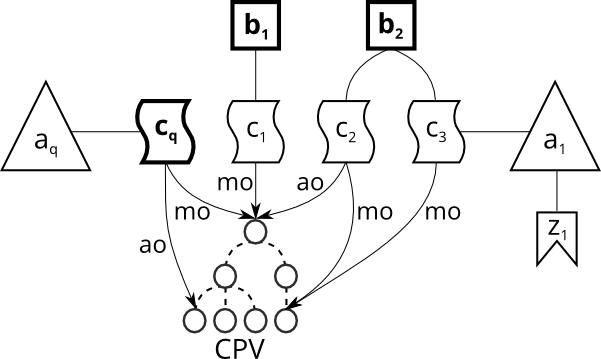
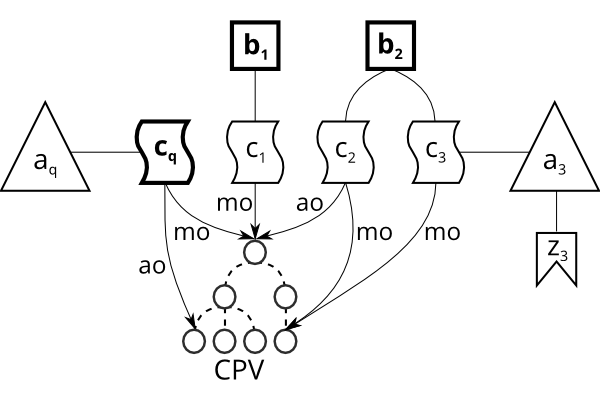
Formalization (again) revamped

Changed region(s): [[0.0, 0.0, 0.78, 1.0], [0.66, 0.2145, 1.0, 0.7354]]

diff --git a/parts/sparql.md b/parts/sparql.md
@@ -78,16 +78,15 @@ For example, SPARQL treats sorting as a result modifier, which needs to be provi
 
 ### Ranking
 
-<!-- FIXME: Should we rename this section "Personalized matchmaking"? -->
-
 SPARQL queries retrieve exact matches satisfying the query conditions.
 Since SPARQL can tell only matches from non-matches, the degrees to which matches satisfy the query are unknown.
 Ranking of matches thus needs to be implemented on top of SPARQL.
 We need to relax the match conditions to avoid filtering partial matches, and then compute scores to rank the matches.
 
-The matchmaker retrieves contract objects that overlap with the object of the query contract, which are optionally expanded to include related CPV concepts.
-Components of contract objects are weighted and these weights are combined into a contract similarity score.
-Contract similarities are aggregated per bidder to produce bidder's match score.
+The matchmaker operates with a given query contract $c_{q}$, which is matched to contracts from the set $C$. <!-- _b -->
+It retrieves contract objects that overlap with the object of the query contract, which are optionally expanded to include related CPV concepts.
+Components of contract objects are weighted and these weights are combined into partial similarity scores.
+Partial similarities are then aggregated per bidder to produce bidder's match score.
 
 #### Contract objects
 
@@ -95,77 +94,94 @@ Contract objects describe what products or services are sought by contracts.
 There are many ways how a contract object can be described.
 The matchmaker leverages contract objects described by terms from controlled vocabularies, such as CPV or the code list of contract kinds.
 Concretely, the matchmaker can use CPV concepts, either as main or additional objects or their qualifiers (`pc:mainObject`, `pc:additionalObject`), contract kinds (`pc:kind`), and service categories (`isvz:serviceCategory`).
-Consequently, we define the set of properties $P = \{\texttt{isvz:serviceCategory}, \texttt{pc:additionalObject}, \texttt{pc:kind}, \texttt{pc:mainObject}\}$ that associate concepts with contracts.
+Consequently, we define the set of properties $P = \{\texttt{pc:mainObject}, \texttt{pc:additionalObject}, \texttt{pc:kind}, \texttt{isvz:serviceCategory}\}$ that associate concepts with contracts.
 The range of each of these properties is enumerated by a controlled vocabulary.
 We define the union of concepts in these vocabularies as $Con = Con_{CPV} \cup Con_{kind} \cup Con_{\substack{service \\ category}}$. <!-- _b -->
 A concept can be either explicitly assigned to a contract or inferred via query expansion.
-To capture this distinction we define the concept type $ConT = \{\text{explicit}, \text{inferred}\}$.
-Contract object $Cobj$ is then an ordered triple $(con, p, cont): con \in Con \land p \in P \land cont \in ConT$ of a concept $con$, a property $p$ with which it is associated to a contract, and the concept type $cont$.
-Contract objects are represented as sets of these triples.
-In order to access contract objects we use the function $obj\colon C \to \mathbb{P}(Cobj)$.
+To capture this distinction we use concept assignment $ConA = \{\text{explicit}, \text{inferred}\}$.
+Contract object $cobj$ is then a tuple $((con, p), cona) \colon con \in Con, p \in P, cona \in ConA$, in which a concept $con$ is paired with property $p$ that associates the concept to a contract and this pair is qualified with concept assignment $cona$.
+Contract objects are represented as sets $Cobj$ of these tuples.
+In order to obtain contract objects we use the function $obj \colon C \cup \left\{c_{q}\right\} \to \mathbb{P}(Cobj)$. <!-- _b -->
+Here, $\mathbb{P}(Cobj)$ denotes the powerset of the set $Cobj$.
+Accessing the elements of contract objects is in turn done by function $ccobj(cobj) = con \iff cobj = ((con, p), cona)$ for concepts and by function $pcobj(cobj) = p \iff cobj = ((con, p), cona)$ for properties.
 
 #### Query expansion
 
 The controlled vocabularies that describe contract objects can be semantically structured, such as via hierarchical or associative relations.
 Since relevance of a concept may entail relevance of concepts in its neighbourhood, we can leverage the structure of these vocabularies and perform expansion to include the related concepts in the query.
-In particular, we expand CPV concepts by following hierarchical relations in this vocabulary.
+In particular, we expand CPV concepts by following transitive hierarchical relations in this vocabulary.
 We follow either links to narrower concepts via `skos:narrowerTransitive`, links to broader concepts via `skos:broaderTransitive`, or links in both directions.
 Query expansion can be parameterized by the maximum number of hops followed to obtain a graph neighbourhood of the expanded concept.
+When a concept is expanded, its inferred concepts include those that are one to the maximum hops away from the expanded concept.
+Note that it is possible to infer a concept already included in the explicitly assigned concepts when these are hierarchically related.
+In such case, the concept appears twice in the contract object, distinguished by its concept assignment.
+Similarly, the same inferred concept can be reached more times by expanding different concepts.
+Such concept is present once in the results of query expansion since the results form a set.
 Figures [@fig:expand-to-narrower] and [@fig:expand-to-broader] illustrate the query expansion, showing expansions to two-hop neighbourhoods. 
 
-![Expansion to broader concepts](img/expand_to_broader.png){#fig:expand-to-broader}
+![Expansion to broader concepts](img/query_expansion_broader.png){#fig:expand-to-broader width=50%}
 
-![Expansion to narrower concepts](img/expand_to_narrower.png){#fig:expand-to-narrower}
+![Expansion to narrower concepts](img/query_expansion_narrower.png){#fig:expand-to-narrower width=50%}
 
-Query expansion can be defined as $exp\colon \mathbb{P}(Cobj) \times Dir \times H \to \mathbb{P}(Cobj)$.
-Number of hops followed in the expansion is drawn from positive integers in the set $H = \{h \in \mathbb{N}^{0}\}$.
-Direction of expansion $Dir$ is the set $\{\texttt{skos:broaderTransitive}, \texttt{skos:narrowerTransitive}\}$.
-Bidirectional expansion of the contract object $cobj$ by the number of hops $h$ can thus be defined as $exp(cobj, \texttt{skos:broaderTransitive}, h) \cup exp(cobj, \texttt{skos:narrowerTransitive}, h)$.
-We only require $exp$ to be monotonous, so that for every contract object $cobj \in Cobj$ holds that $(con, p, t) \in cobj \;\; \Rightarrow \;\; (con, p, t) \in exp(cobj, dir, h)$.
-By default $h = 0$, which translates to no expansion, so that $exp(cobj, dir, 0) = cobj$.
-Concrete instantiations of the query expansion function can limit which input contract objects are expanded.
-In our case, only contract objects where $p = \texttt{pc:mainObject}$ and $con \in Con_{CPV}$ are expanded. <!-- _b -->
+Arguments of the query expansion function $exp$ are a set of contract objects, a direction of expansion, and a distance of the expansion.
+The direction of expansion $Dir$ is the set $\{\texttt{skos:broaderTransitive}, \texttt{skos:narrowerTransitive}\}$ indicating either the expansion to broader or narrower concepts.
+The distance is the maximum number of hops followed in the expansion.
+Consequently, the query expansion function can be defined as $exp \colon \mathbb{P}(Cobj) \times Dir \times \mathbb{N}_{> 0} \to \mathbb{P}(Cobj)$. <!-- _b -->
+Bidirectional expansion of the contract object $cobj' \subset Cobj$ to the distance $dis$ can thus be computed as $exp(cobj', \texttt{skos:broaderTransitive}, dis) \cup exp(cobj', \texttt{skos:narrowerTransitive}, dis)$.
+We only require $exp$ to be monotonous, so that for every contract object $cobj \in Cobj$ holds that $((con, p), cona) \in cobj \;\; \Rightarrow \;\; ((con, p), cona) \in exp(cobj, dir, dis)$, hence the function $exp$ returns a union of its provided contracts objects with the inferred contract objects.
+Concrete instantiations of $exp$ can limit which input contract objects are expanded.
+In our case, either no contract objects are expanded or we only expand the explicitly assigned contract objects where $p = \texttt{pc:mainObject}$ and $con \in Con_{CPV}$. <!-- _b -->
 
 #### Matching
 
-The matchmaker examines only exact matches between contract objects.
-The predicate $matches\colon Cobj \times Cobj \to \{T, F\}$ returns the boolean value true, denoted as $T$, if concepts in the compared contract objects are the same.
+The matchmaker examines only exact matches between concepts of contract objects.
+Instead of matching complete contract descriptions or sets of concepts, matching on the finer level of individual concepts allows to capture partial overlaps between contracts.
+The predicate $matches \colon Cobj \times Cobj \to \{T, F\}$ returns the boolean value true, denoted as $T$, if concepts in the compared contract objects are the same.
 
 $$matches(cobj_{a}, cobj_{b}) =
   \begin{cases}
-    T & \text{if}\ cobj_{a_{1}} = cobj_{b_{1}} \\
+    T & \text{if}\ ccobj(cobj_{a}) = ccobj(cobj_{b}) \\
     F & \textrm{otherwise} \\
   \end{cases}$$ <!-- _b -->
 
-Here, $cobj_{a_{1}}$ refers to the first element of the tuple $cobj_{a}$, i.e. its concept.
-Analogously, $cobj_{b_{1}}$ is the concept in $cobj_{b}$.
-In order to achieve a match, the ranges of the properties in the compared contract objects must be the same.
+Here, $ccobj(cobj_{a})$ accesses the concept in the contract object $cobj_{a}$.
+As is evident, in order to achieve a match, the ranges of the properties in the compared contract objects must be the same.
 
 Matching considers its input as the query contract, while the others are treated as contracts to be matched.
-Function $match\colon C \times Dir \times H \to \mathbb{P}(CA)$ retrieves contract associations matching a given query contract $c_{q}$.
+Function $match \colon \left\{c_{q}\right\} \times Dir \times \mathbb{N}_{> 0} \to \mathbb{P}(CMA)$ retrieves concept-mediated associations matching a given query contract $c_{q}$.
 
-$$match(c_{q}, dir, h) = \bigcup_{
-  \substack{o_{q} \in obj(c_{q}) \\
-            c_{m} \in C \setminus \{c_{q}\} \\
-            o_{m} \in obj(c_{m}) \\
-            matches(o_{q}, o_{m})}}
-            (o_{q_{1}}, o_{q_{2}}, o_{m_{2}}, c_{m})$$
+$$match(c_{q}, dir, dis) = \bigcup \left\{ \begin{split}
+  & (ccobj(o_{q}), pcobj(o_{q}), pcobj(o_{m}), c_{m}) \colon \\
+  & o_{q} \in exp(obj(c_{q}), dir, dis), \\
+  & c_{m} \in C, \\
+  & o_{m} \in obj(c_{m}), \\
+  & matches(o_{q}, o_{m})
+  \end{split}\right\}$$
 
-This function produces concept associations $CA$ that are defined as quads $(con, p_{q}, p_{m}, c)\colon con \in Con \land p_{q} \in P \land p_{m} \in P \land c \in C$.
-Here we also employ the numeric subscript notation to access elements of the n-tuples $o_{q}$ and $o_{m}$.
-In each concept association $p_{q}$ is a property associating a concept $con$ to the query contract and $p_{m}$ is a property associating $con$ to a matched contract $c$.
+This function produces a set of concept-mediated associations $CMA$ that are defined as 4-tuples $(con, p_{q}, p_{m}, c) \colon con \in Con, p_{q} \in P, p_{m} \in P, c_{m} \in C$.
+We call them concept-mediated associations since they connect the query contract with the matched contracts via concepts.
+In each association $p_{q}$ is a property associating a concept $con$ to the query contract and $p_{m}$ is a property associating $con$ to a matched contract $c_{m}$. <!-- _b -->
+
+![Overall diagram of concept-mediated associations](img/matchmaking_overall_diagram.png){#fig:matchmaking-overall-diagram width=75%}
+
+The [@fig:matchmaking-overall-diagram] shows an overall diagram of concept-mediated associations.
+Query contract $c_{q}$ is associated to matched contracts $c_{1}, c_{2}, c_{3} \in C$ via CPV concepts that are assigned to contracts either by `pc:mainObject` ($mo$) or `pc:additionalObject` ($ao$).
+The matched contracts in turn lead to bidders $b_{1}, b_{2} \in B$.
+Here, $B$ is the set of known bidders.
+Contracting authority of $c_{q}$ is marked as $a_{q}$, while the contracting authority of $c_{3}$ is denoted as $a_{3}$.
+For $a_{3}$ a zIndex score $z_{3}$ is available.
 
 #### Weighting
 
-The matchmaker can translate each part of concept associations into a weight from $W = \{w \in \mathbb{R} : 0 \leq w \leq 1\}$.
+The matchmaker can translate each part of concept-mediated associations into a weight from $W = \{w \in \mathbb{R} \colon 0 \leq w \leq 1\}$.
 The concept $con$ can be transformed into an IDF, in particular when dealing with concepts obtained via query expansion.
-The properties $p_{q}$ and $p_{m}$ can be weighted according to the degree they contribute to the similarity between contracts.
-The contract $c$ can be turned into a weight corresponding to its contracting authority's fairness score.
+The properties $p_{q}$ and $p_{m}$ can be weighted according to the degree to which they contribute to the similarity between contracts.
+The contract $c_{m}$ can be turned into a weight corresponding to its contracting authority's fairness score. <!-- _b -->
 Some weights are given by data or derived from it, others can be provided as configuration to the matchmaker.
 
 There are several concrete ways in which weights can be applied to CPV concepts.
 The matchmaker may apply an inhibiting weight to de-emphasize the concepts associated with contracts via the `pc:additionalObject` property.
-These weights are applied both to associations with the query contract and those with the matched contracts.
+These weights are applied both to $p_{q}$ and $p_{m}$.
 <!--
 We could allow different weights for associations with the query contract and the matched contracts.
 For example, an additional object of the query contract can be weighted lower than an additional object of a matched contract.
@@ -175,16 +191,16 @@ For instance, while an authority may assign a smaller weight to additional objec
 Similarly, qualifying concepts from the CPV's supplementary vocabulary can be discounted by a lower weight.
 Concepts inferred by query expansion can be weighted either by a fixed inhibition or their inverse document frequency (IDF).
 
-Inverse document frequency is used to de-emphasize the impact of popular CPV concepts on matchmaking.
+Inverse document frequency is used to reduce the impact of popular CPV concepts on matchmaking.
 Unlike infrequent and specific concepts, the popular ones may have lesser discriminative power to determine the relevance of contracts described by them.
-IDF ($idf\colon Con_{CPV} \to \mathbb{R}^{+}$) is computed as follows: <!-- _b -->
+IDF, defined as $idf \colon Con_{CPV} \to \mathbb{R}^{+}$, is computed as follows: <!-- _b -->
 
-$$idf(con) = \log\frac{\left\vert{C}\right\vert}{1 + \left\vert{\{c \in C: con \in \{(con', p, t) \in obj(c): con'\}\}}\right\vert}$$
+$$idf(con) = \log\frac{\left\vert{C}\right\vert}{1 + \left\vert{\{c \in C \colon con \in \{((con', p), t) \in obj(c): con'\}\}}\right\vert}$$
 
 The denominator in the formula is incremented by 1 to avoid division by zero in case of concepts unused in contract objects.
 Subsequently, we scale IDF into $W$ by using its maximum value in order to be able to use it as a weight.
 
-$$idf'(con) = \frac{idf(con)}{max(\{con' \in Con_{CPV} : idf(con')\})}$$ <!-- _b -->
+$$idf'(con) = \frac{idf(con)}{max(\{con' \in Con_{CPV} \colon idf(con')\})}$$ <!-- _b -->
 
 Besides CPV, weights can be applied to objects of specific properties from $P$.
 In particular, the matchmaker can inhibit the objects of `pc:kind` when used in combination with CPV.
@@ -193,24 +209,32 @@ This property indicates the kinds of contracts, such as works or supplies, which
 The matchmaker also allows to weight the matched contracts indirectly via weights of their contracting authorities.
 We use zIndex scores as weights of contracting authorities.
 These scores are taken from the dataset described in [@sec:zindex].
-We assume the function $authority\colon C \to A$ returns the contracting authority of a given contract.
-The function $zindex\colon A \to W$ produces a weight given to a contracting authority by the zIndex score.
+We assume the function $authority \colon C \to Auth$ returns the contracting authority of a given contract.
+Here, $Auth$ denotes the set of known contracting authorities.
+The function $zindex \colon Auth \to W$ produces a weight given to a contracting authority by the zIndex score.
 We can then define the weighting function $zindex'$ by composing these functions; i.e. $zindex' = zindex \circ authority$.
 
-Weighting functions can be defined through a polymorphic function $weight\colon Con \cup P \cup C \to W$ that retrieves a weight according to the type of its argument.
-A weighting function $f$ can be thus applied to all components of concept association $coll \in CA$ using the common higher-order function $map$:
+Weighting functions can be defined through a polymorphic function $weight \colon Con \cup P \cup C \to W$ that retrieves a weight according to the type of its argument.
+A weighting function $f$ can be thus applied to all components of concept-mediated association $coll \in CMA$ using the common higher-order function $map$:
 
-$$map(f, coll) = \begin{cases}
+$$\small
+map(f, coll) = \begin{cases}
   () & \text{if}\ coll = () \\
-  f(coll_{1}) \oplus map(f, (coll_{2}, \dots, coll_{n})) & \text{if}\ coll = (coll_{1}, coll_{2}, \dots, coll_{n})
-\end{cases}$$
+  \begin{split}
+  & f(coll_{1}) \\
+  & \oplus \\
+  & map(f, (coll_{2}, \dots, coll_{n}))
+  \end{split}
+  & \text{if}\ coll = (coll_{1}, coll_{2}, \dots, coll_{n})
+\end{cases}
+\normalsize$$
 
-If we apply it to weighting functions from the set $WF$ and concept associations $CA$, then the type signature of this specialization is $map': WF \times CA \to W$.
+If we apply it to weighting functions from the set $WF$ and concept-mediated associations $CMA$, then the type signature of this derived function is $map' \colon WF \times CMA \to W$.
 
 #### Aggregation functions
 
 We use aggregation functions to turn weights into match scores.
-Weights of components in each concept association are combined using the function $comb$.
+Weights of components in each concept-mediated association are combined using the function $comb$.
 The combined weights are aggregated via the function $agg$.
 Both aggregation functions $comb$ and $agg$ have the same type signature $W \times W \to W$.
 
@@ -242,25 +266,34 @@ We use these t-conorms to aggregate contract similarities into the match scores 
 
 Any aggregation function $f$ is applied to a collection of weights $coll$ using the common higher-order function $foldl$ implementing left fold, in which $e$ is the identity element of $f$.
 
-$$foldl(f, e, coll) = \begin{cases}
+$$\small
+foldl(f, e, coll) = \begin{cases}
   e & \text{if}\ coll = () \\
-  foldl(f, f(e, coll_{1}), (coll_{2}, \dots, coll_{n})) & \text{if}\ coll = (coll_{1}, coll_{2}, \dots, coll_{n})
-\end{cases}$$
+  \begin{split}
+  foldl( & f, \\
+         & f(e, coll_{1}), \\
+         & (coll_{2}, \dots, coll_{n}))
+  \end{split}
+  & \text{if}\ coll = (coll_{1}, coll_{2}, \dots, coll_{n})
+\end{cases}
+\normalsize$$ <!-- _b -->
 
 If fact, both left and right folds can be used, since the aggregation functions we employ are associative.
 
 Given these formulas we can summarize how the matchmaker works.
-Using a configuration of query expansion and weighting, for a query contract $c_{q}$ the matchmaker retrieves concept associations $ca \in match(c_{q}, dir, h)$.
+The matchmaker retrieves concept-mediated associations $cma \in match(c_{q}, dir, dis)$ for a query contract $c_{q}$ using a configuration of query expansion and weighting.
 Concept associations are partitioned into subsets by the bidder awarded with their contract.
-Each concept association in these partitions is subsequently weighted to produce $ws = map(weight, ca)$.
-The obtained weights are combined to a single weight of each concept association $w = foldl(comb, 1, ws)$.
-A tuple $ws$ of the combined weights $w$ from a partition by bidder can be then aggregated by $foldl(agg, 0, ws)$ to produce match scores. 
-Finally, matches are sorted by their score in descending order and the top-$k$ matches are output.
+<!-- We can also create subpartitions by contract within these partitions. The aggregated weights in these subpartitions can be considered contract similarity scores. This may be closer to the informal explanation of matchmaking, yet it is unnecessary. -->
+Each concept-mediated association in these partitions is subsequently weighted to produce an n-tuple $ws = map(weight, cma)$.
+The obtained weights are combined to a single weight of each concept-mediated association $w = foldl(comb, 1, ws)$.
+An n-tuple $ws$ of the combined weights $w$ from a partition by bidder can be then aggregated by $foldl(agg, 0, ws)$ to produce match scores. 
+Finally, the matches are sorted by their score in descending order and the top-$k$ matches are output.
 
-### Non-personalized matchmaking
+<!-- FIXME: Do we need to formalize sorting and accessing the bidders from concept associations? -->
 
-Apart from the above-described matchmaker, we also implemented three non-personalized approaches for matchmaking.
-We call these approaches non-personalized because none of them considers the query contract.
+### Blind matchmaking
+
+Apart from the above-described matchmaker, we also implemented three blind approaches for matchmaking, none of which considers the query contract.
 The most basic is the random matchmaker that recommends bidders at random.
 While it is hardly going to deliver a competitive accuracy, it produces diverse results.
 An approach contrary to random matchmaking is the recommendation of the top-most popular bidders.

diff --git a/parts/methods.md b/parts/methods.md
@@ -57,20 +57,6 @@ Browsing-based approaches: navigation of the item space, for example using criti
 - Critiquing can be used to reformulate matchmaking queries (e.g., assign different weights) or query the results (e.g., filter to meet the critique).
 -->
 
-## Definitions
-
-<!--
-TODO: Does C denote a set of identities or internally structured objects?
--->
-
-We can start with a definition of the key entities involved in the matchmaking task.
-Let $C$ be the set of evaluated public contracts, $B$ the set of known bidders, $A$ the set of contracting authorities, and $Con_{CPV}$ be the set of CPV concepts.
-We use numeric subscripts to access elements of n-tuples, so that $coll_{i}$ denotes the $i$-th element of n-tuple $coll$.
-We use $\mathbb{P}$ to denote a power set of a set.
-We use $a \oplus b$ to denote concatenation of n-tuples $a$ and $b$.
-We define the set of tuples of elements from the set $S$ as $(S)$.
-Composition of functions $f$ and $g$ is denoted $f \circ g$.
-
 <!--
 Subscription to streams
 - Notifications
@@ -133,3 +119,11 @@ Top-k recommendation: best matches are shown, but not their predicted ratings.
 <!-- ... segue ... -->
 
 We experimented with matchmaking methods that use SPARQL, full-text search, and tensor factorization.
+
+## Notation conventions
+
+We employ conventional notation to describe the matchmaking methods.
+We use $\mathbb{P}$ to denote a power set of a set.
+We use $a \oplus b$ to denote concatenation of n-tuples $a$ and $b$.
+We mark the set of tuples of elements from the set $S$ as $(S)$.
+Composition of functions $f$ and $g$ is denoted $f \circ g$.

diff --git a/parts/offline_evaluation.md b/parts/offline_evaluation.md
@@ -49,17 +49,20 @@ Performance ~ efficiency in time and space (e.g., speed and RAM consumption)
 Mention restrictions by the computational cost of an evaluation protocol? E.g., not using a learning to rank algorithm?
 -->
 
-We define the evaluation metrics using the following notation, building on the notation defined previously. 
+We define the evaluation metrics using the following notation.
+Let $C$ be the set of public contracts and $B$ the set of bidders.
 The function $match_{m}\colon C \to \mathbb{P}(B)$, where $\mathbb{P}(B)$ is the powerset of $B$, returns an ordered set of bidders recommended for a given public contract by matchmaker $m$.
 The function $bidder\colon C \to B$ returns the bidder to whom a contract was awarded.
 The function $wrank\colon C \to \mathbb{N}_{\ge 1} \cup \{ \text{nil} \}$ gives the rank of the bidder who won a given public contract.
 
-$$wrank(c) = 
+$$wrank(c) =
+  \small
   \begin{cases}
     n \in \mathbb{N}\colon bidder(c)\, \textrm{is in position}\, n\, \textrm{in}\, match_{m}(c)
     & \text{if}\ bidder(c) \in match_{m}(c) \\
     \quad\textrm{nil} & \textrm{otherwise} \\
-  \end{cases}$$
+  \end{cases}
+  \normalsize$$
 
 The function $awards\colon B \to \mathbb{N}$ returns the number of contracts awarded to a given bidder.
 

diff --git a/parts/full_text_search.md b/parts/full_text_search.md
@@ -49,4 +49,9 @@ Comparison of CBR systems with information retrieval systems is in [@Richter2013
 Implementation note:
 If bidder was not awarded any tender, find similar bidders via their description in ARES.
 If bidder's description is not found in ARES, an ad hoc request is issued to the ARES API to fetch its description and run it through ETL.
+
+Use a learning to rank plugin? <https://github.com/o19s/elasticsearch-learning-to-rank>
+Use boosting by recency via scripting?
+Custom similarity based on overlaps in description. <http://stefansavev.com/blog/custom-similarity-for-elasticsearch>
+It is possible to implement ES plugins in Clojure. <https://github.com/dakrone/elasticsearch-clojure-plugin>
 -->
